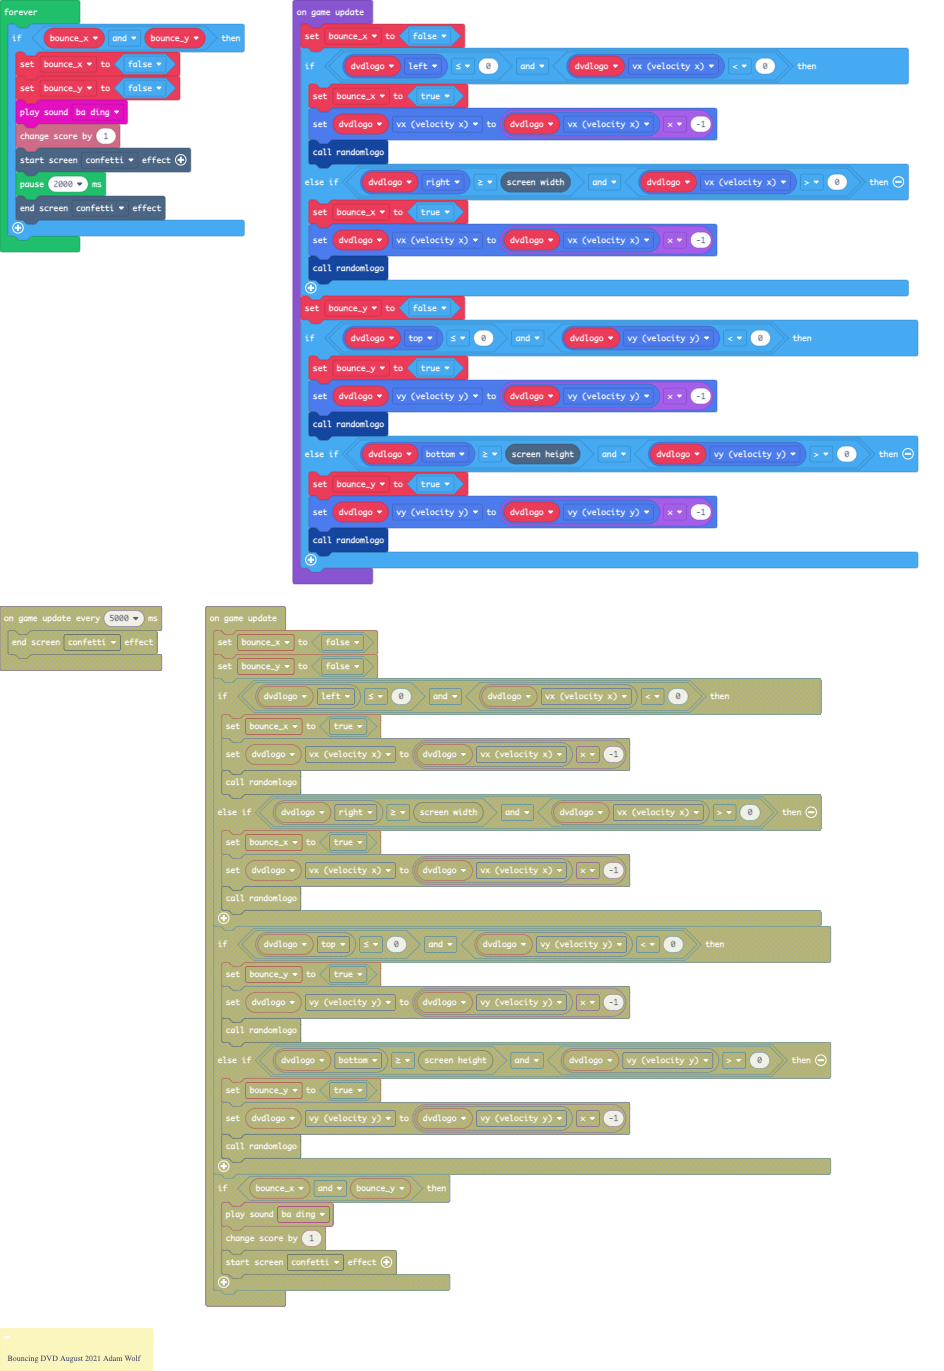
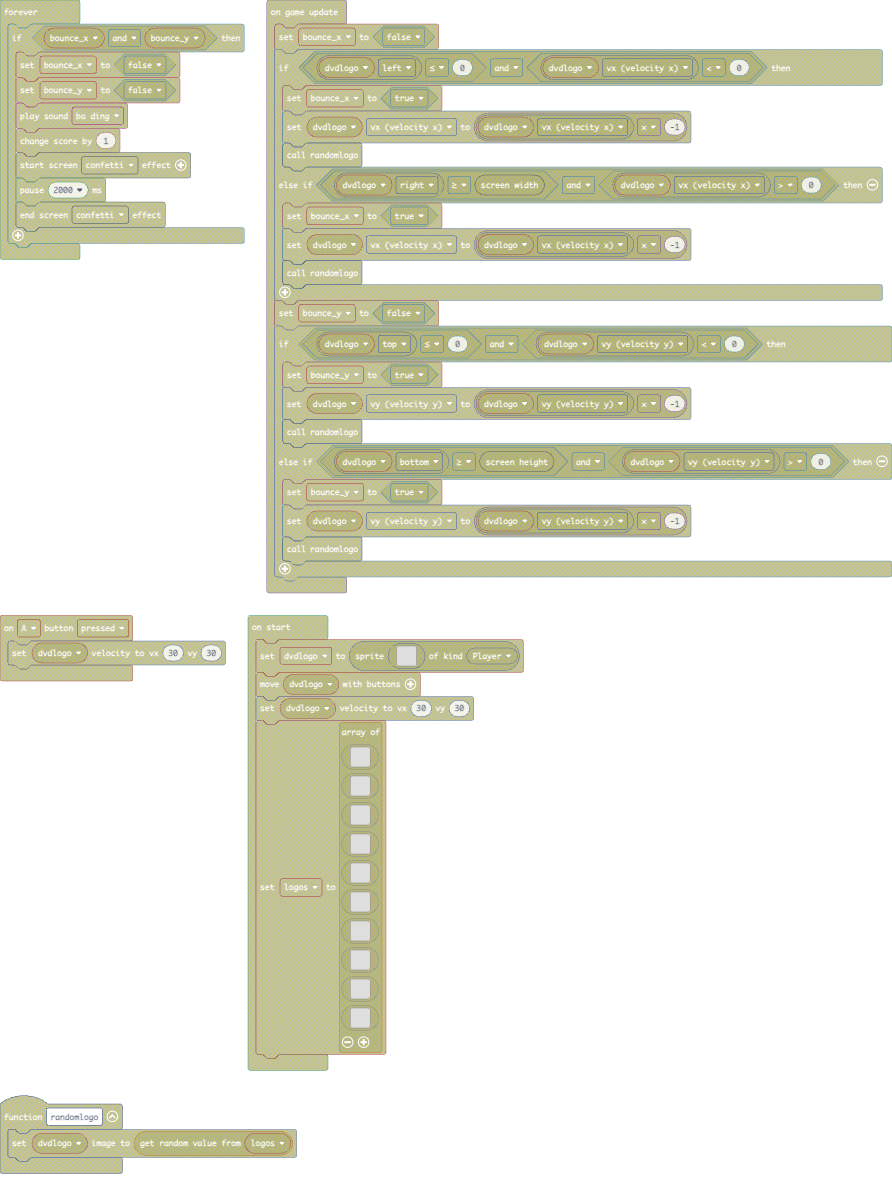
Refactoring and reformatting

diff --git a/images.g.ts b/images.g.ts
@@ -3,76 +3,6 @@ namespace myImages {
 
     helpers._registerFactory("image", function(name: string) {
         switch(helpers.stringTrim(name)) {
-            case "image1":
-            case "dvd":return img`
-................................
-................................
-................................
-................................
-................................
-................................
-................................
-................................
-................................
-................................
-................................
-................................
-................3...............
-...............33...............
-...........3333.................
-................................
-................................
-................................
-................................
-................................
-................................
-................................
-................................
-................................
-................................
-................................
-................................
-................................
-................................
-................................
-................................
-................................
-`;
-            case "image2":
-            case "dvdlogo":return img`
-................................
-................................
-................................
-................................
-................................
-................................
-................................
-................................
-................................
-................................
-................................
-................................
-...............3................
-..............3.................
-.............3..................
-............3...................
-............3...................
-............3...................
-............3...................
-...........3....................
-...........3....................
-...........3....................
-................................
-................................
-................................
-................................
-................................
-................................
-................................
-................................
-................................
-................................
-`;
             case "image4":
             case "dvdred":return img`
 ...222222222222.....2222222222..
@@ -282,6 +212,13 @@ cccccccccccc.....ccccccccccccc..
     })
 
     helpers._registerFactory("animation", function(name: string) {
+        switch(helpers.stringTrim(name)) {
+
+        }
+        return null;
+    })
+
+    helpers._registerFactory("song", function(name: string) {
         switch(helpers.stringTrim(name)) {
 
         }

diff --git a/tilemap.g.ts b/tilemap.g.ts
@@ -3,31 +3,6 @@ namespace myTiles {
     //% fixedInstance jres blockIdentity=images._tile
     export const transparency16 = image.ofBuffer(hex``);
 
-    helpers._registerFactory("tilemap", function(name: string) {
-        switch(helpers.stringTrim(name)) {
-            case "level1":
-            case "level1":return tiles.createTilemap(hex`1000100000000000000000000000000000000000000000000000000000000000000000000000000000000000000000000000000000000000000000000000000000000000000000000000000000000000000000000000000000000000000000000000000000000000000000000000000000000000000000000000000000000000000000000000000000000000000000000000000000000000000000000000000000000000000000000000000000000000000000000000000000000000000000000000000000000000000000000000000000000000000000000000000000000000000000000000000000000000000000000000000000000000000000000000000000000000`, img`
-. . . . . . . . . . . . . . . . 
-. . . . . . . . . . . . . . . . 
-. . . 2 2 2 2 2 2 . . . . . . . 
-. . . . 2 . . . 2 . . . . . . . 
-. . . . 2 . . . 2 . . . . . . . 
-. . . 2 2 . . . 2 . . . . . . . 
-. . . 2 . . . . 2 . . . . . . . 
-. . . 2 . . . . 2 . . . . . . . 
-. . . 2 2 . . . 2 . . . . . . . 
-. . . . 2 2 2 2 2 . . . . . . . 
-. . . . . . . 2 2 . . . . . . . 
-. . . . . . . . . . . . . . . . 
-. . . . . . . . . . . . . . . . 
-. . . . . . . . . . . . . . . . 
-. . . . . . . . . . . . . . . . 
-. . . . . . . . . . . . . . . . 
-`, [myTiles.transparency16], TileScale.Sixteen);
-        }
-        return null;
-    })
-
     helpers._registerFactory("tile", function(name: string) {
         switch(helpers.stringTrim(name)) {
             case "transparency16":return transparency16;

diff --git a/main.ts b/main.ts
@@ -1,10 +1,15 @@
 /**
- * Bouncing DVD
- * 
- * August 2021
- * 
  * Adam Wolf
+ * 
+ * Bouncing DVD Logo in MakeCode Arcade
+ * 
+ * August 2021 -
  */
+// Bouncing DVD
+// 
+// August 2021
+// 
+// Adam Wolf
 controller.A.onEvent(ControllerButtonEvent.Pressed, function () {
     dvdlogo.setVelocity(30, 30)
 })
@@ -51,8 +56,6 @@ game.onUpdate(function () {
         dvdlogo.vy = dvdlogo.vy * -1
         randomlogo()
     }
-})
-forever(function () {
     if (bounce_x && bounce_y) {
         bounce_x = false
         bounce_y = false

diff --git a/main.py b/main.py
@@ -1,3 +1,89 @@
-mySprite = sprites.create(assets.image("""
-    dvdlogo
+"""
+
+Bouncing DVD
+
+August 2021
+
+Adam Wolf
+
+"""
+
+def on_a_pressed():
+    dvdlogo.set_velocity(30, 30)
+controller.A.on_event(ControllerButtonEvent.PRESSED, on_a_pressed)
+
+def randomlogo():
+    dvdlogo.set_image(logos._pick_random())
+bounce_y = False
+bounce_x = False
+logos: List[Image] = []
+dvdlogo: Sprite = None
+dvdlogo = sprites.create(assets.image("""
+    dvdwhite
 """), SpriteKind.player)
+controller.move_sprite(dvdlogo)
+dvdlogo.set_velocity(30, 30)
+logos = [assets.image("""
+        dvdwhite
+    """),
+    assets.image("""
+        dvdred
+    """),
+    assets.image("""
+        dvdpink
+    """),
+    assets.image("""
+        dvdorange
+    """),
+    assets.image("""
+        dvdgreen
+    """),
+    assets.image("""
+        dvdblue
+    """),
+    assets.image("""
+        dvdlightblue
+    """),
+    assets.image("""
+        dvdpurple
+    """),
+    assets.image("""
+        dvdgray
+    """),
+    assets.image("""
+        dvdnavy
+    """)]
+
+def on_on_update():
+    global bounce_x, bounce_y
+    bounce_x = False
+    if dvdlogo.left <= 0 and dvdlogo.vx < 0:
+        bounce_x = True
+        dvdlogo.vx = dvdlogo.vx * -1
+        randomlogo()
+    elif dvdlogo.right >= scene.screen_width() and dvdlogo.vx > 0:
+        bounce_x = True
+        dvdlogo.vx = dvdlogo.vx * -1
+        randomlogo()
+    bounce_y = False
+    if dvdlogo.top <= 0 and dvdlogo.vy < 0:
+        bounce_y = True
+        dvdlogo.vy = dvdlogo.vy * -1
+        randomlogo()
+    elif dvdlogo.bottom >= scene.screen_height() and dvdlogo.vy > 0:
+        bounce_y = True
+        dvdlogo.vy = dvdlogo.vy * -1
+        randomlogo()
+game.on_update(on_on_update)
+
+def on_forever():
+    global bounce_x, bounce_y
+    if bounce_x and bounce_y:
+        bounce_x = False
+        bounce_y = False
+        music.ba_ding.play()
+        info.change_score_by(1)
+        effects.confetti.start_screen_effect()
+        pause(2000)
+        effects.confetti.end_screen_effect()
+forever(on_forever)
